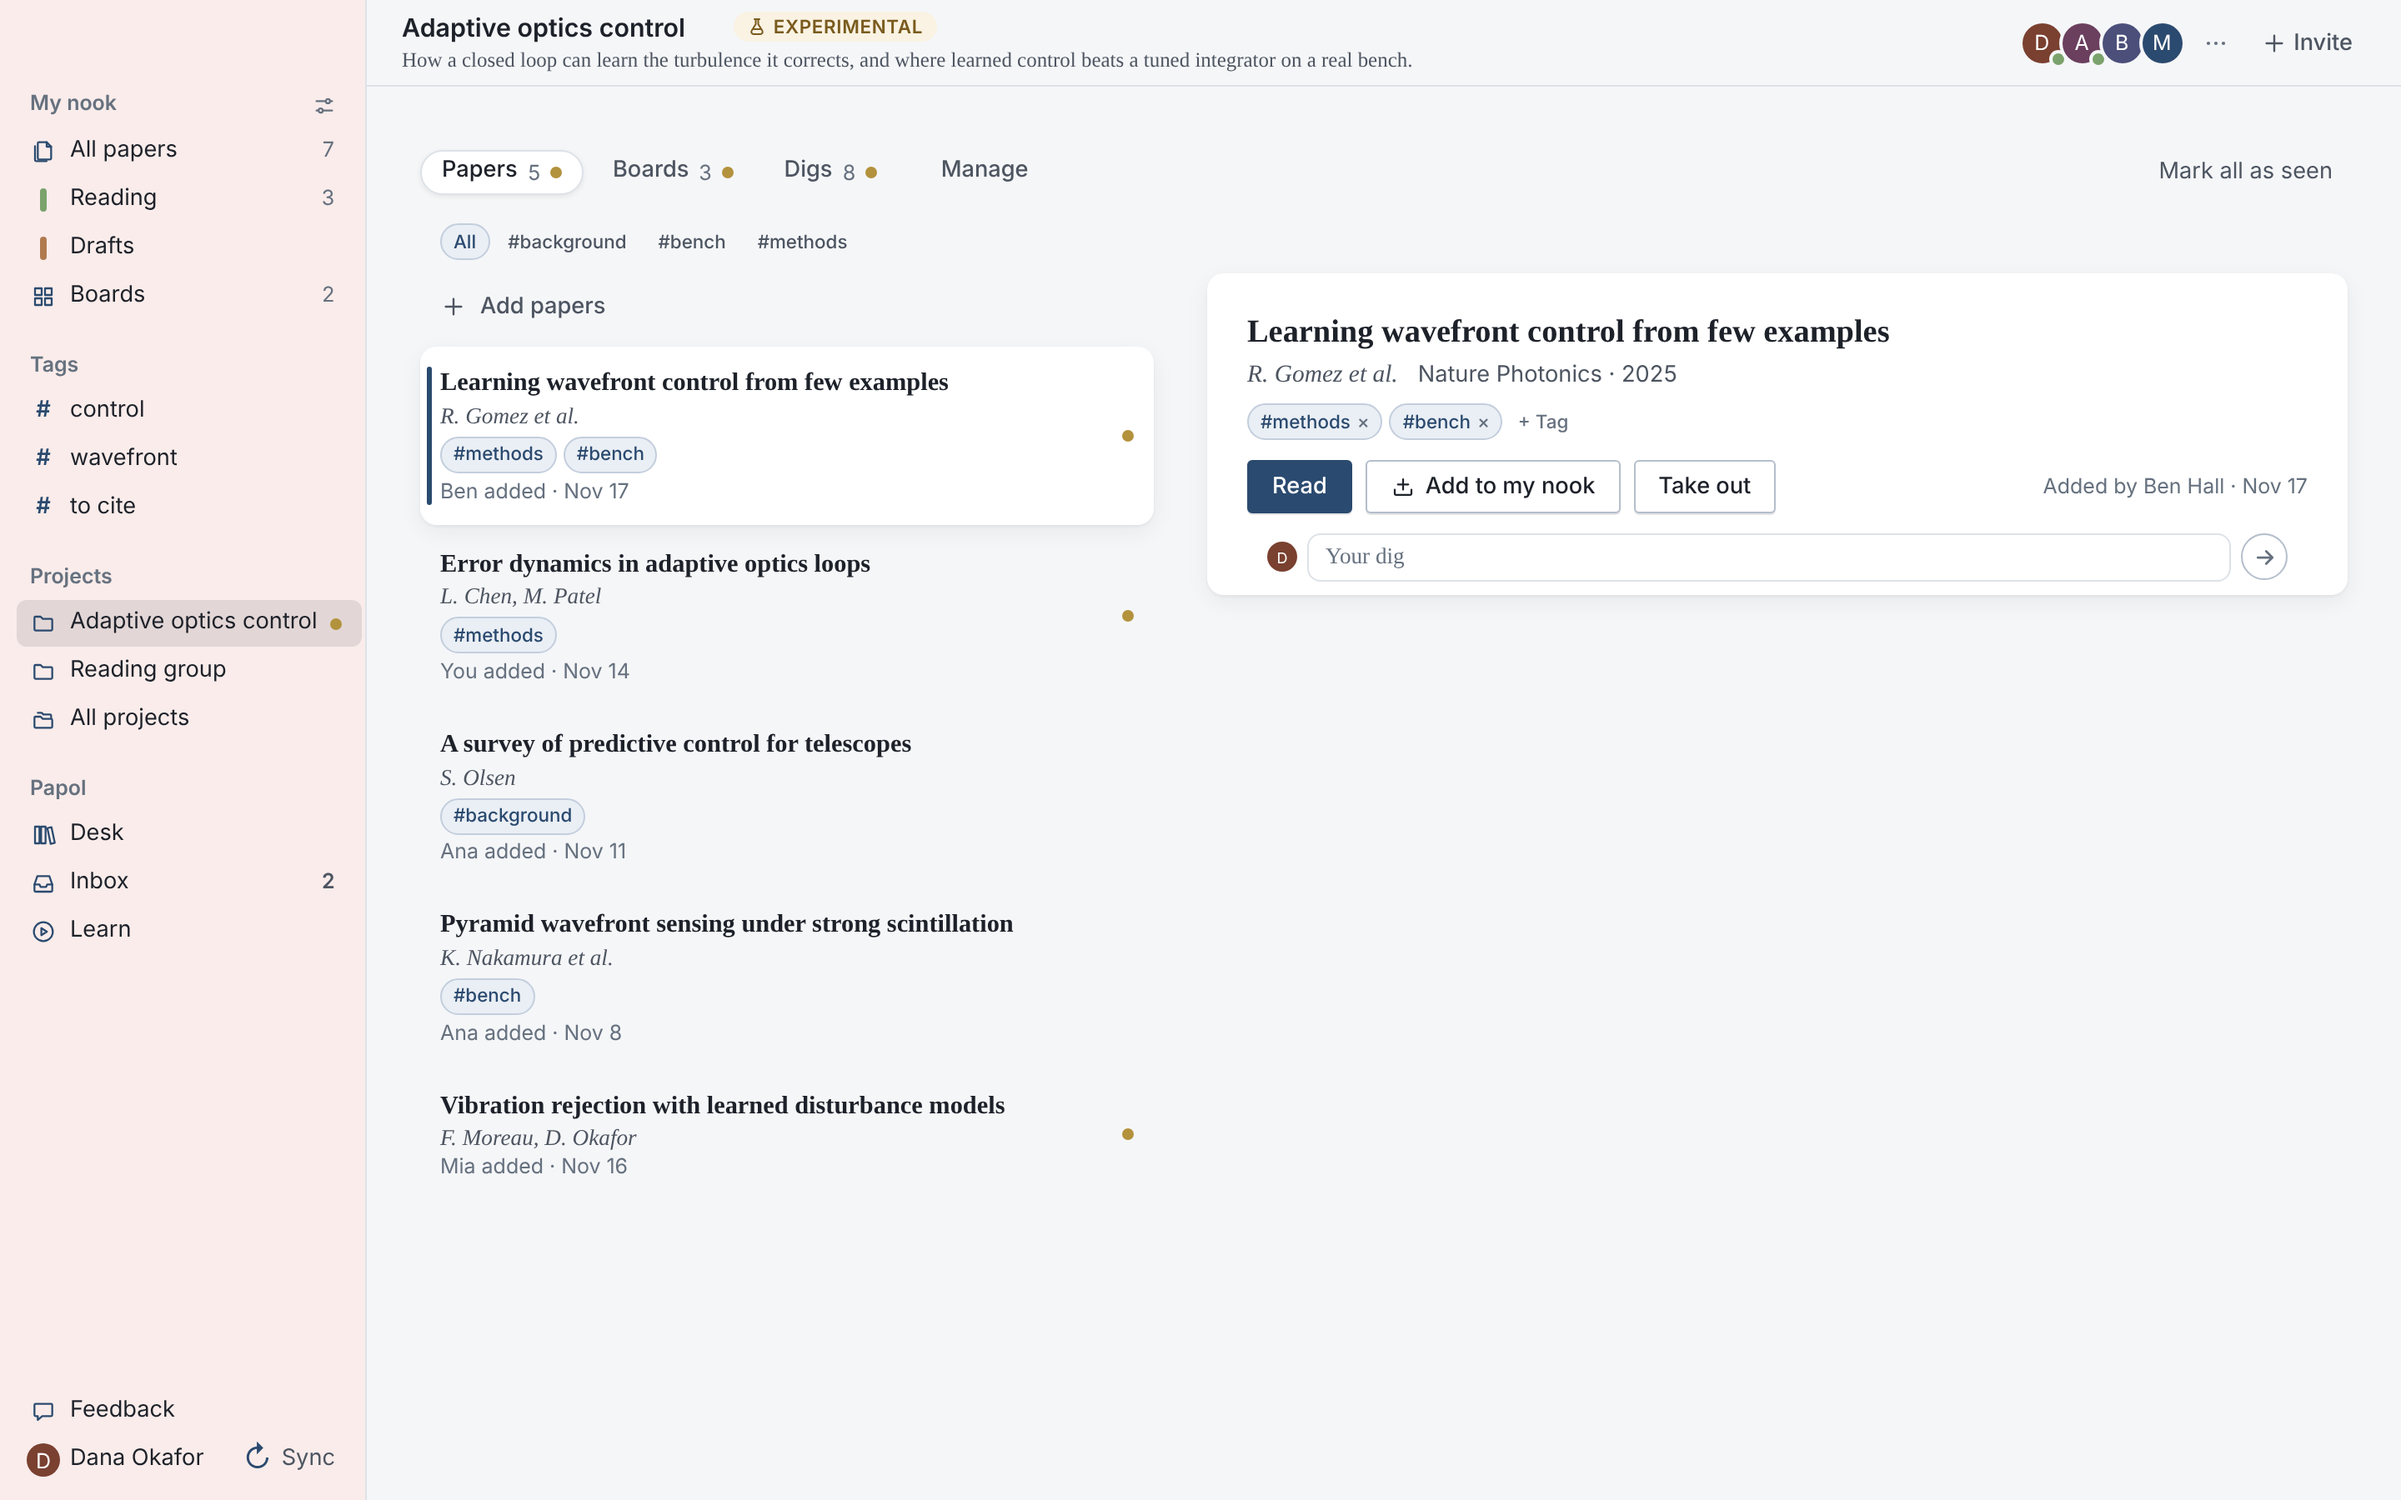
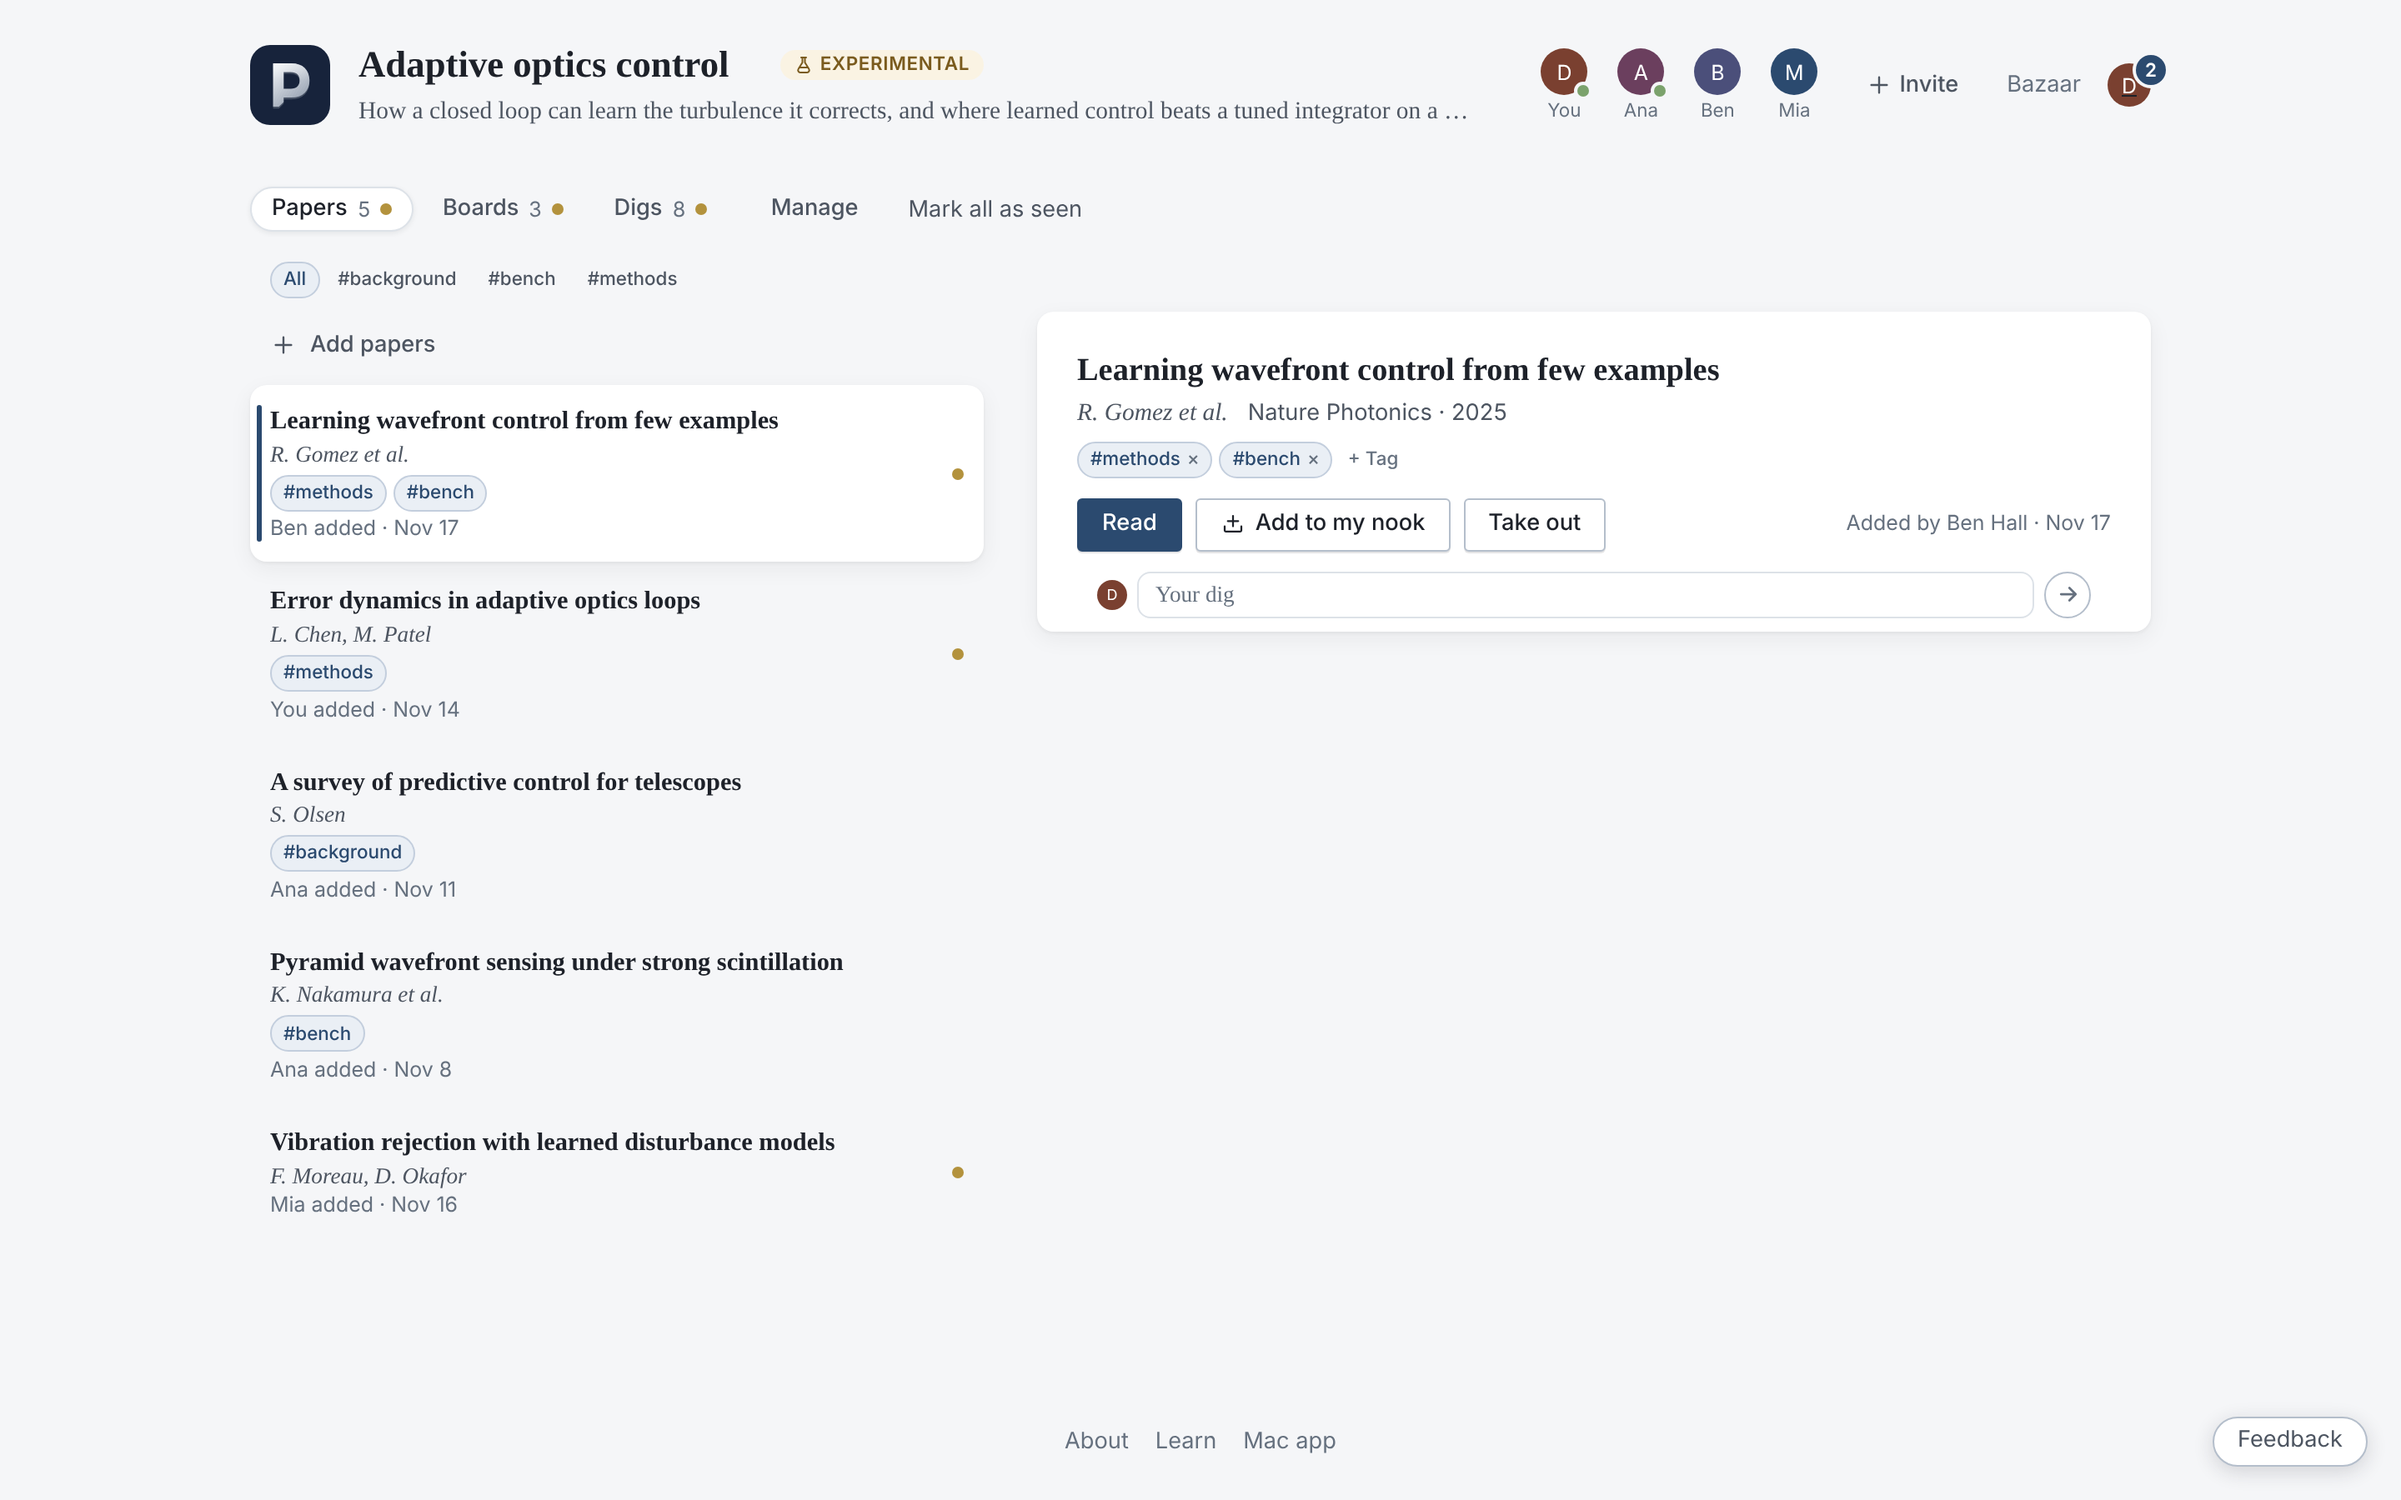
Project seats: no "···" after the faces; the member list is in Manage
The button after a project's faces opened the member list, which now
lives in the Manage tab. It is gone; past five faces, the count of the
rest (+N) remains and opens Manage. Invite keeps its card.

Claude-Session: https://claude.ai/code/session_01PQZzMVGNz4upo86s9b4ZAB

diff --git a/frontend/src/components/ProjectPage.jsx b/frontend/src/components/ProjectPage.jsx
@@ -301,12 +301,11 @@ export default function ProjectPage({ projectUuid, board = null, paper = null, c
             <small>{user.uuid === currentUser?.uuid ? 'You' : firstName(user)}</small>
           </a>
         ))}
-        <button
-          type="button" className="project-seat-more" aria-label="Members" aria-expanded={open === 'people'} aria-controls="project-people"
-          onClick={() => setPeopleOpen(open === 'people' ? false : 'people')}
-        >
-          {people.length > 5 ? `+${people.length - 5}` : <ActionGlyph name="more" />}
-        </button>
+        {people.length > 5 && (
+          <button type="button" className="project-seat-more" aria-label={`All ${count}, in Manage`} onClick={() => setView('manage')}>
+            +{people.length - 5}
+          </button>
+        )}
       </div>
       {project.is_keeper && (
         <button
@@ -418,32 +417,30 @@ export default function ProjectPage({ projectUuid, board = null, paper = null, c
   );
 }
 
-// A card under the seats, so the desk stays where the eye was: who is in
-// it and leaving (the faces), or the one invitation link (a keeper's Invite).
+// A card under the seats, so the desk stays where the eye was: a keeper's
+// Invite, to add someone or hand out the link. Who is in the project, and
+// leaving it, are in Manage.
 function People({ project, showing, currentUser, act, onLeft, onClose }) {
   const self = useRef(null);
   useEffect(() => {
-    const away = (e) => { if (!self.current?.contains(e.target) && !e.target.closest('.project-seat-more, .project-invite-open')) onClose(); };
+    const away = (e) => { if (!self.current?.contains(e.target) && !e.target.closest('.project-invite-open')) onClose(); };
     const escape = (e) => { if (e.key === 'Escape') onClose(); };
     document.addEventListener('pointerdown', away);
     document.addEventListener('keydown', escape);
     return () => { document.removeEventListener('pointerdown', away); document.removeEventListener('keydown', escape); };
   }, [onClose]);
-  const leave = () => leaveProject({ project, currentUser, act, onLeft });
   return (
     <section id="project-people" className="project-people" aria-label={showing === 'invite' ? 'Invite' : 'Members'} ref={self}>
       {showing === 'invite' && project.is_keeper && <>
         <AddPerson project={project} act={act} />
         <Invitation project={project} act={act} />
       </>}
-      {showing === 'people' && <MemberList project={project} currentUser={currentUser} act={act} onLeave={leave} />}
     </section>
   );
 }
 
 // Who is in the project, each with what can be done about them: you can
-// leave, and a keeper makes others keepers or removes them. Shown in the
-// card under the seats and in Manage.
+// leave, and a keeper makes others keepers or removes them. In Manage.
 export function MemberList({ project, currentUser, act, onLeave }) {
   return (
     <ul className="project-people-list">

diff --git a/frontend/src/projectSeats.test.js b/frontend/src/projectSeats.test.js
@@ -2,9 +2,9 @@ import assert from 'node:assert/strict';
 import { readFileSync } from 'node:fs';
 import test from 'node:test';
 
-// On a project's tabs row each face is its own way to that person's nook,
-// and the member list opens from its own button after them, never from the
-// faces as one control.
+// On a project's tabs row each face is its own way to that person's nook.
+// The member list is in Manage: no button after the faces opens it, and
+// past five faces the count of the rest leads there.
 const page = readFileSync(new URL('./components/ProjectPage.jsx', import.meta.url), 'utf8');
 const row = page.slice(page.indexOf('className="project-seat-row"'), page.indexOf('className="project-invite-open"'));
 
@@ -12,8 +12,9 @@ test('each face on the tabs row links to its person', () => {
   assert.match(row, /<a className="project-seat" key=\{user\.uuid\} href=\{appPath\(`\/u\/\$\{user\.uuid\}`\)\}/);
 });
 
-test('the member list opens from its own button, not from the faces', () => {
+test('no button after the faces opens a member list; the rest lead to Manage', () => {
   assert.match(page, /<div className="project-seat-row"/);
   assert.doesNotMatch(page, /<button[^>]*className="project-seat-row"/);
-  assert.match(row, /className="project-seat-more"[^>]*aria-controls="project-people"/);
+  assert.doesNotMatch(row, /aria-controls="project-people"|ActionGlyph name="more"/);
+  assert.match(row, /people\.length > 5 && \(\s*<button type="button" className="project-seat-more"[^>]*onClick=\{\(\) => setView\('manage'\)\}/);
 });
